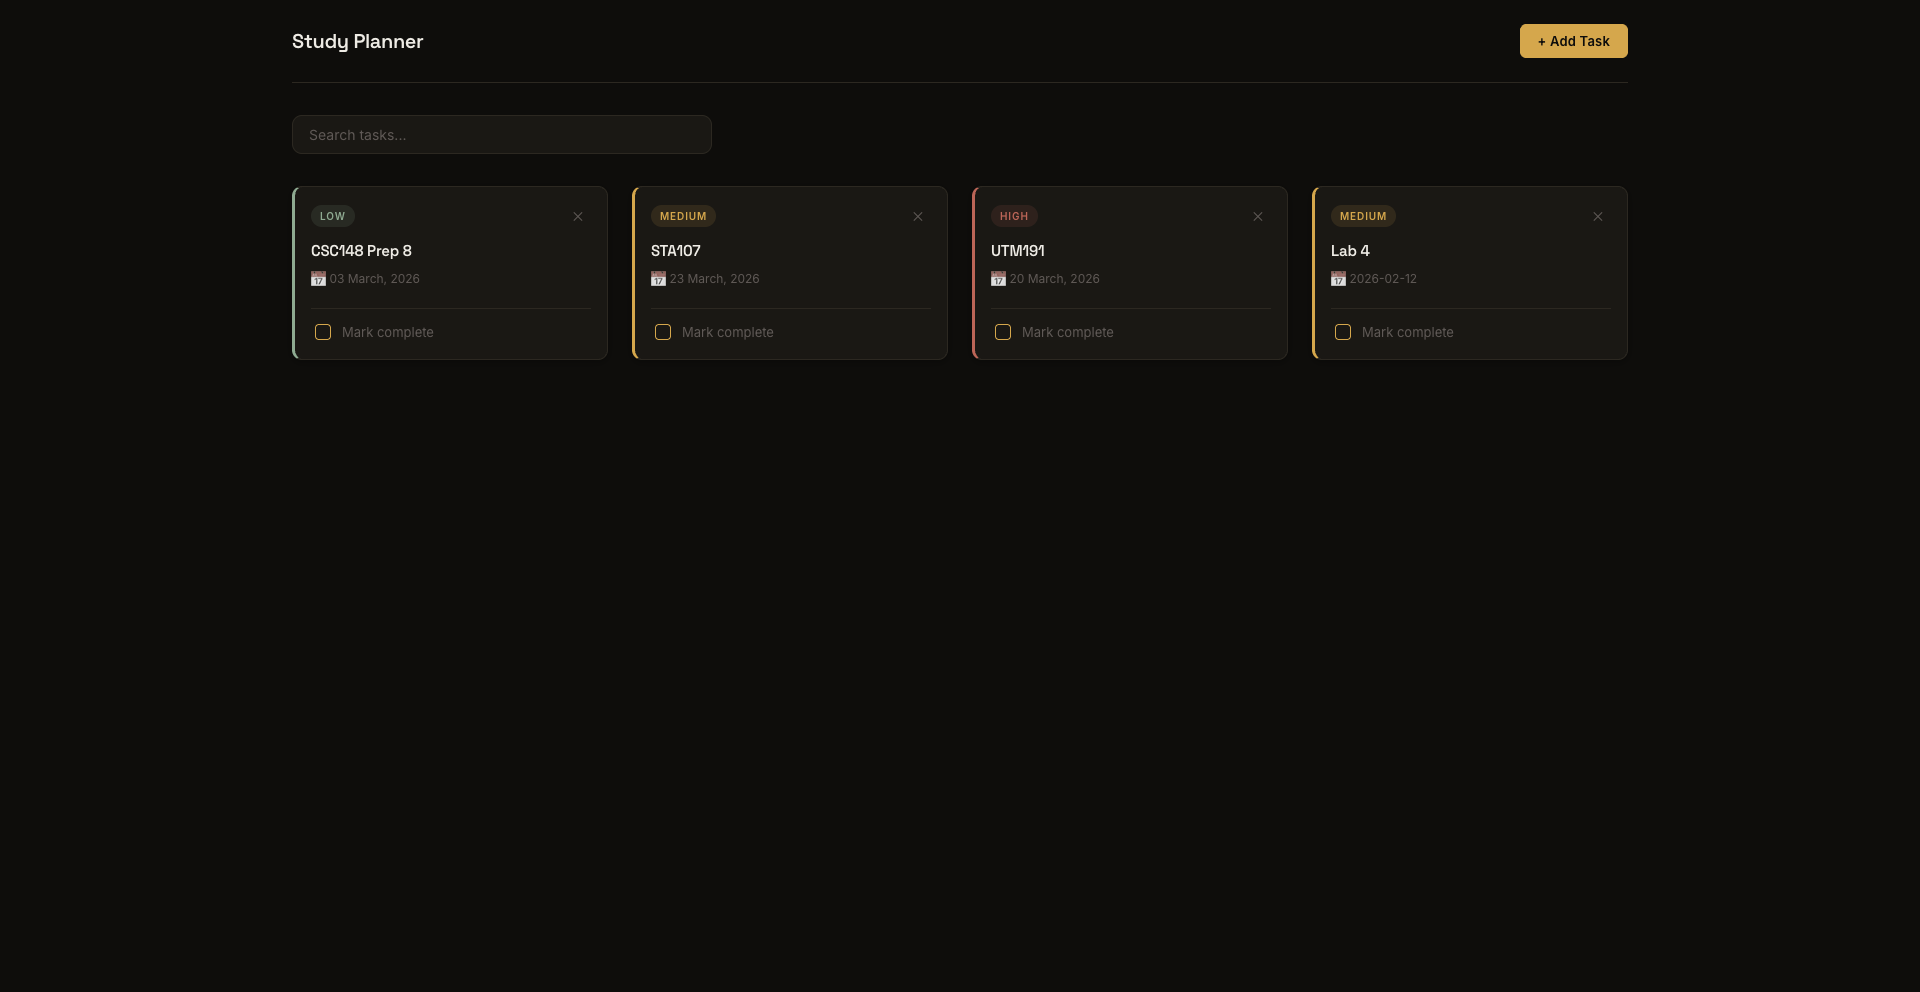
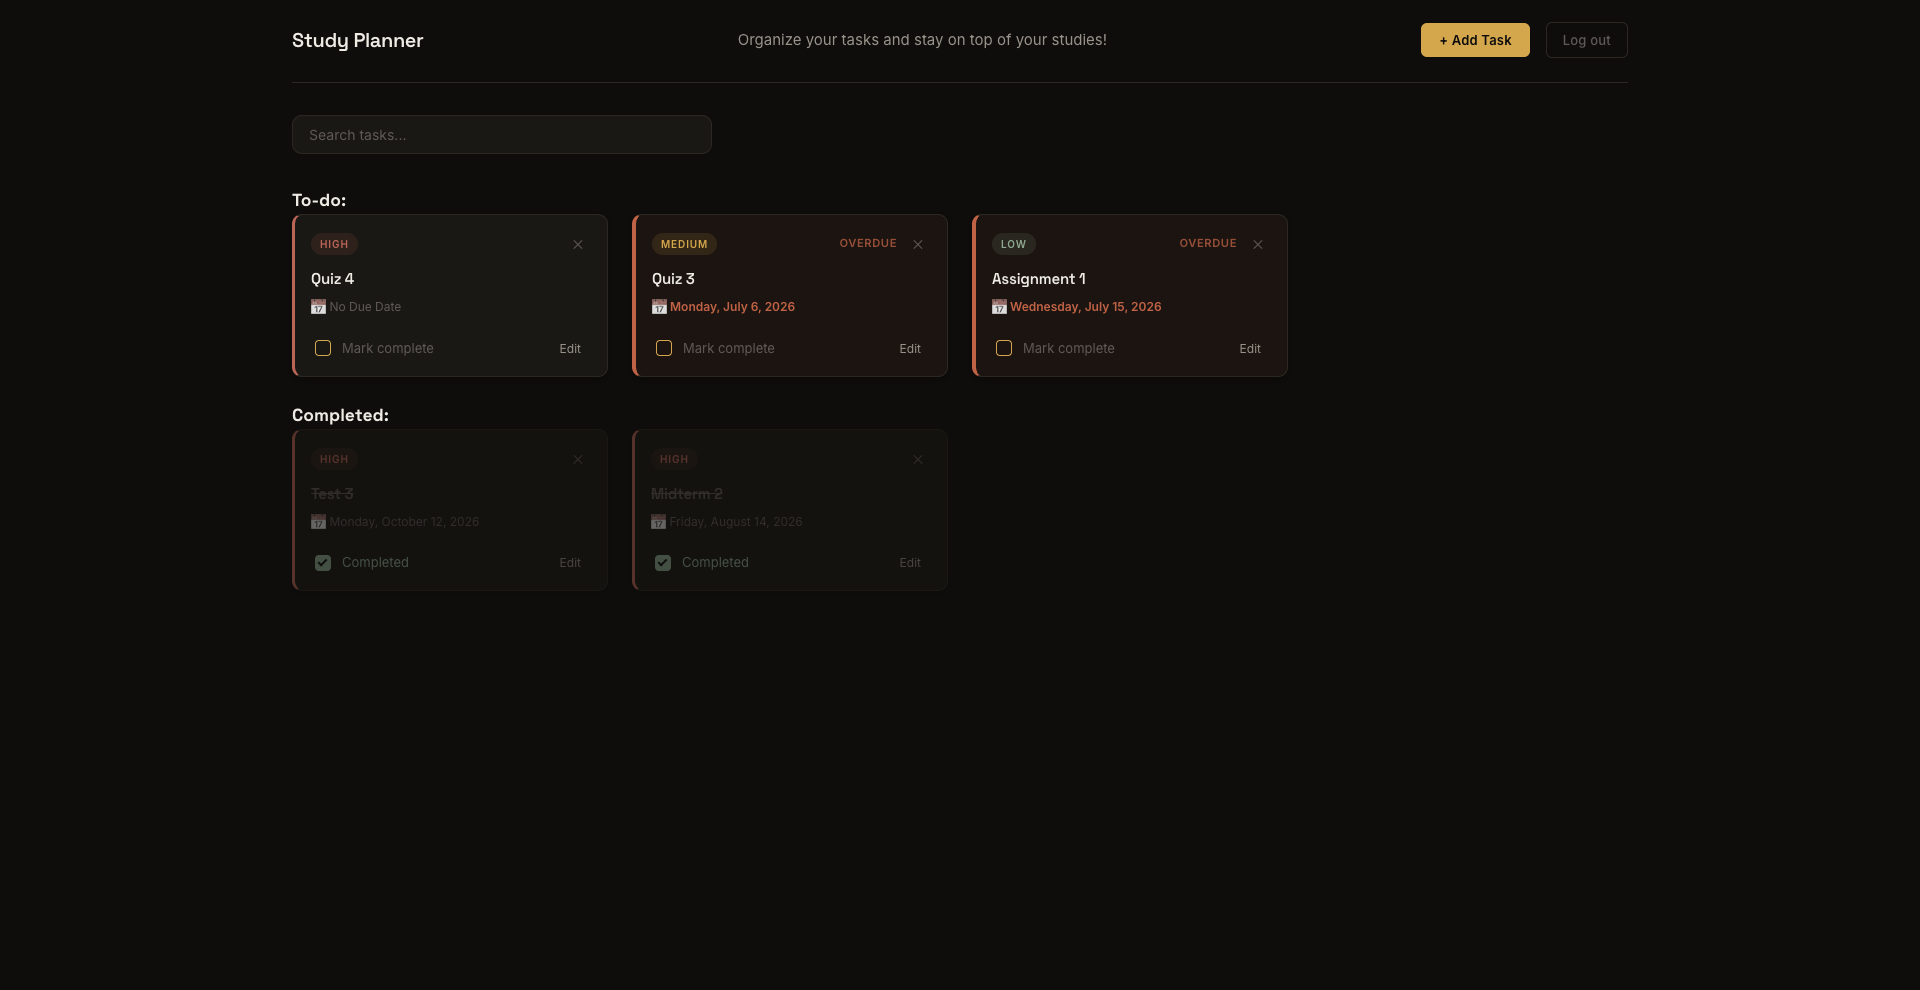
Updated screenshots and readme

diff --git a/README.md b/README.md
@@ -4,17 +4,15 @@ A full-stack study planning app that lets you create, organize, and track tasks 
 
 <!-- TODO: 2-3 sentences here. Who is this for, what problem does it solve, what makes it useful day-to-day? -->
 The study planner is for students in school or university finding a way to list down their tasks with priorities and completed status 
-all in one accessible place.
+all in one accessible place. Each user has its own private workspace to display their own task list.
 
 ## Features
+- **User Authentication & Personalization:** Secure individual accounts ensuring each student accesses and manages their own private workspace.
+- **Task Categorization & Prioritization:** Ability to assign priority levels, due dates, tags, and subject categories to keep coursework organized.
+- **Status Tracking:** Real-time progress updates that allow users to mark tasks as pending, or finished. Overdue tasks highlighted in red
+- **Interactive Dashboard:** A centralized, clean overview displaying upcoming deadlines, high-priority tasks, and overall completion statistics.
+- **Search & Filter Functionality:** Quick searching options to view tasks based on their title.
 
-- Create, edit, delete, and mark tasks as complete
-- Search tasks by title
-- Responsive layout (mobile-friendly)
-- Dark, warm UI with a custom design system
-- Sort tasks by due date and priority
-- Accumulate completed and non-completed tasks in two separate areas
-- Overdue tasks highlighted in red
 
 ## Tech Stack
 
@@ -57,6 +55,13 @@ The app will be running at `http://localhost:5173`.
 
 ## Screenshots
 
+### User Authentication Forms
+#### Log-in
+![alt text](screenshots/login_form.png)
+
+#### Register
+![alt text](screenshots/signup_form.png)
+
 ### Home Page
 ![alt text](screenshots/home_page.png)
 
@@ -65,13 +70,15 @@ The app will be running at `http://localhost:5173`.
 
 ## Roadmap
 
-Stage 1 (current): core CRUD, frontend-backend integration, and UI polish.
+Stage 1: core CRUD, frontend-backend integration, and UI polish.
+
+Stage 2 (completed):
+- User authentication
 
 Stage 2 (next):
-<!-- TODO: list planned stage 2 features here, e.g. user authentication, categories/tags, recurring tasks, calendar view, deployment -->
-- User authentication
+<!-- TODO: list planned stage 2 features here, e.g. categories/tags/filter, recurring tasks, calendar view, deployment -->
 - AI Recommendation system
 
 ## Project Status
 
-Stage 1 complete. Actively developing stage 2 features.
+Stage 1 and part 1 of stage 2 complete. Actively developing stage 2's next features.
